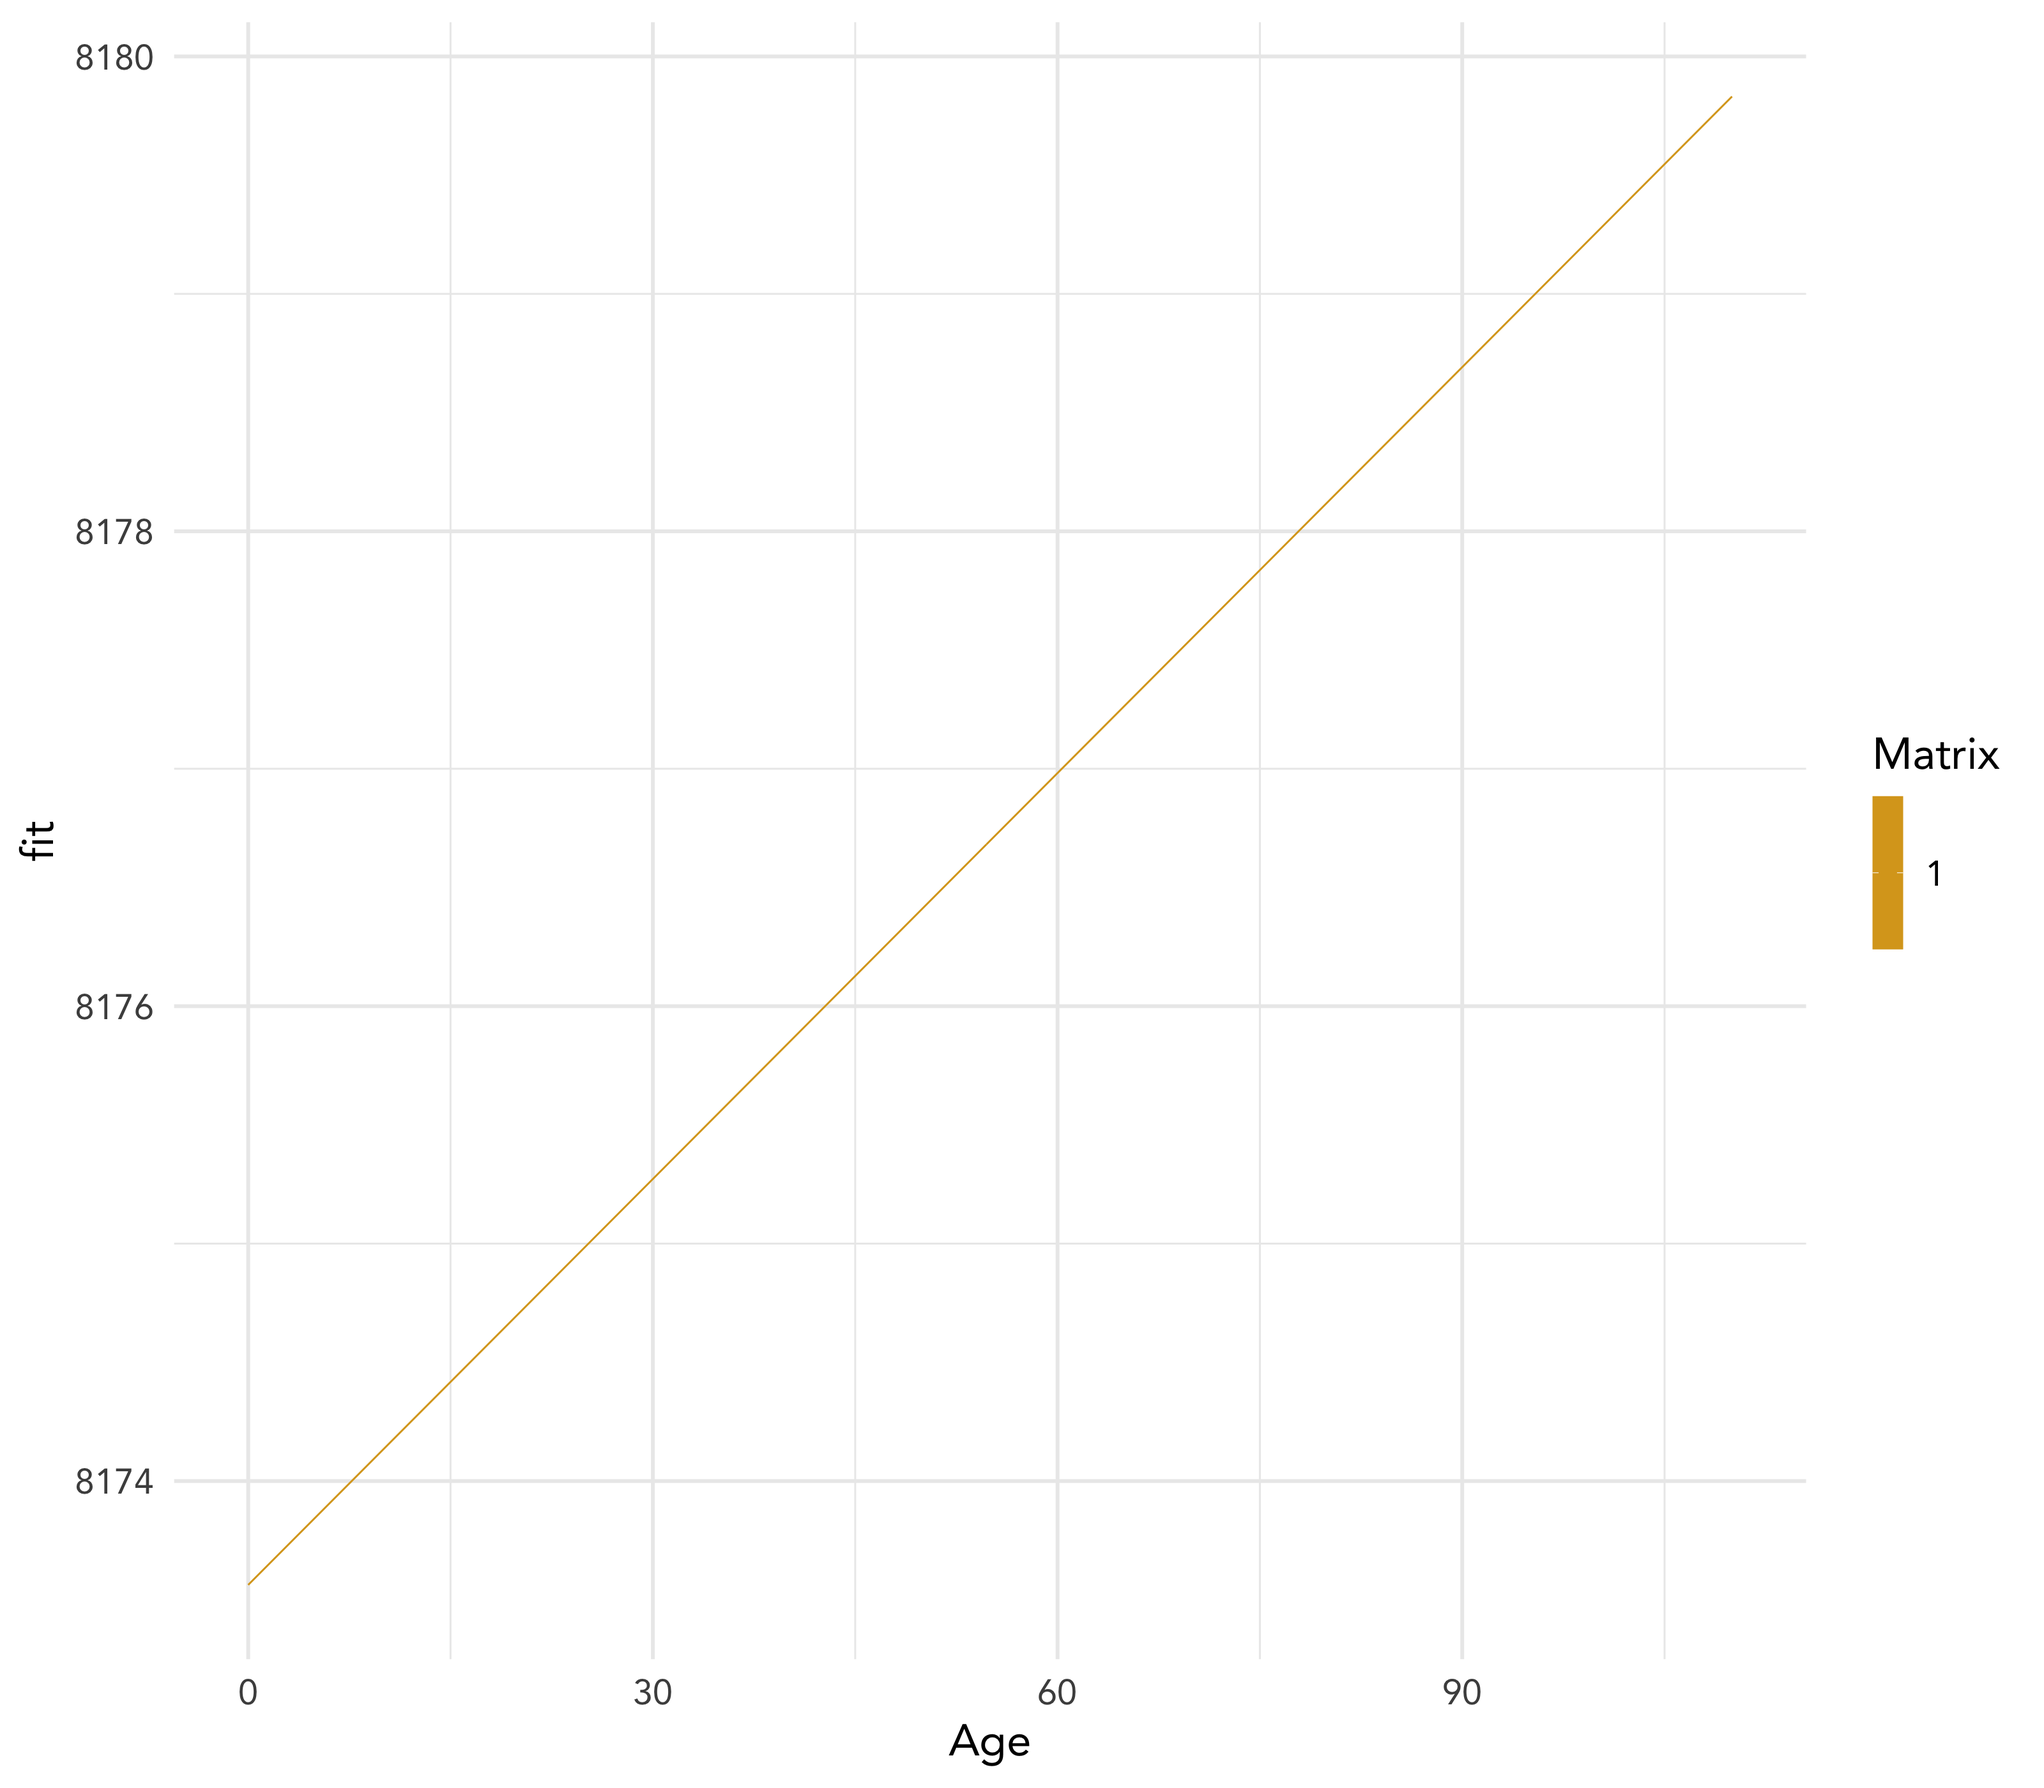
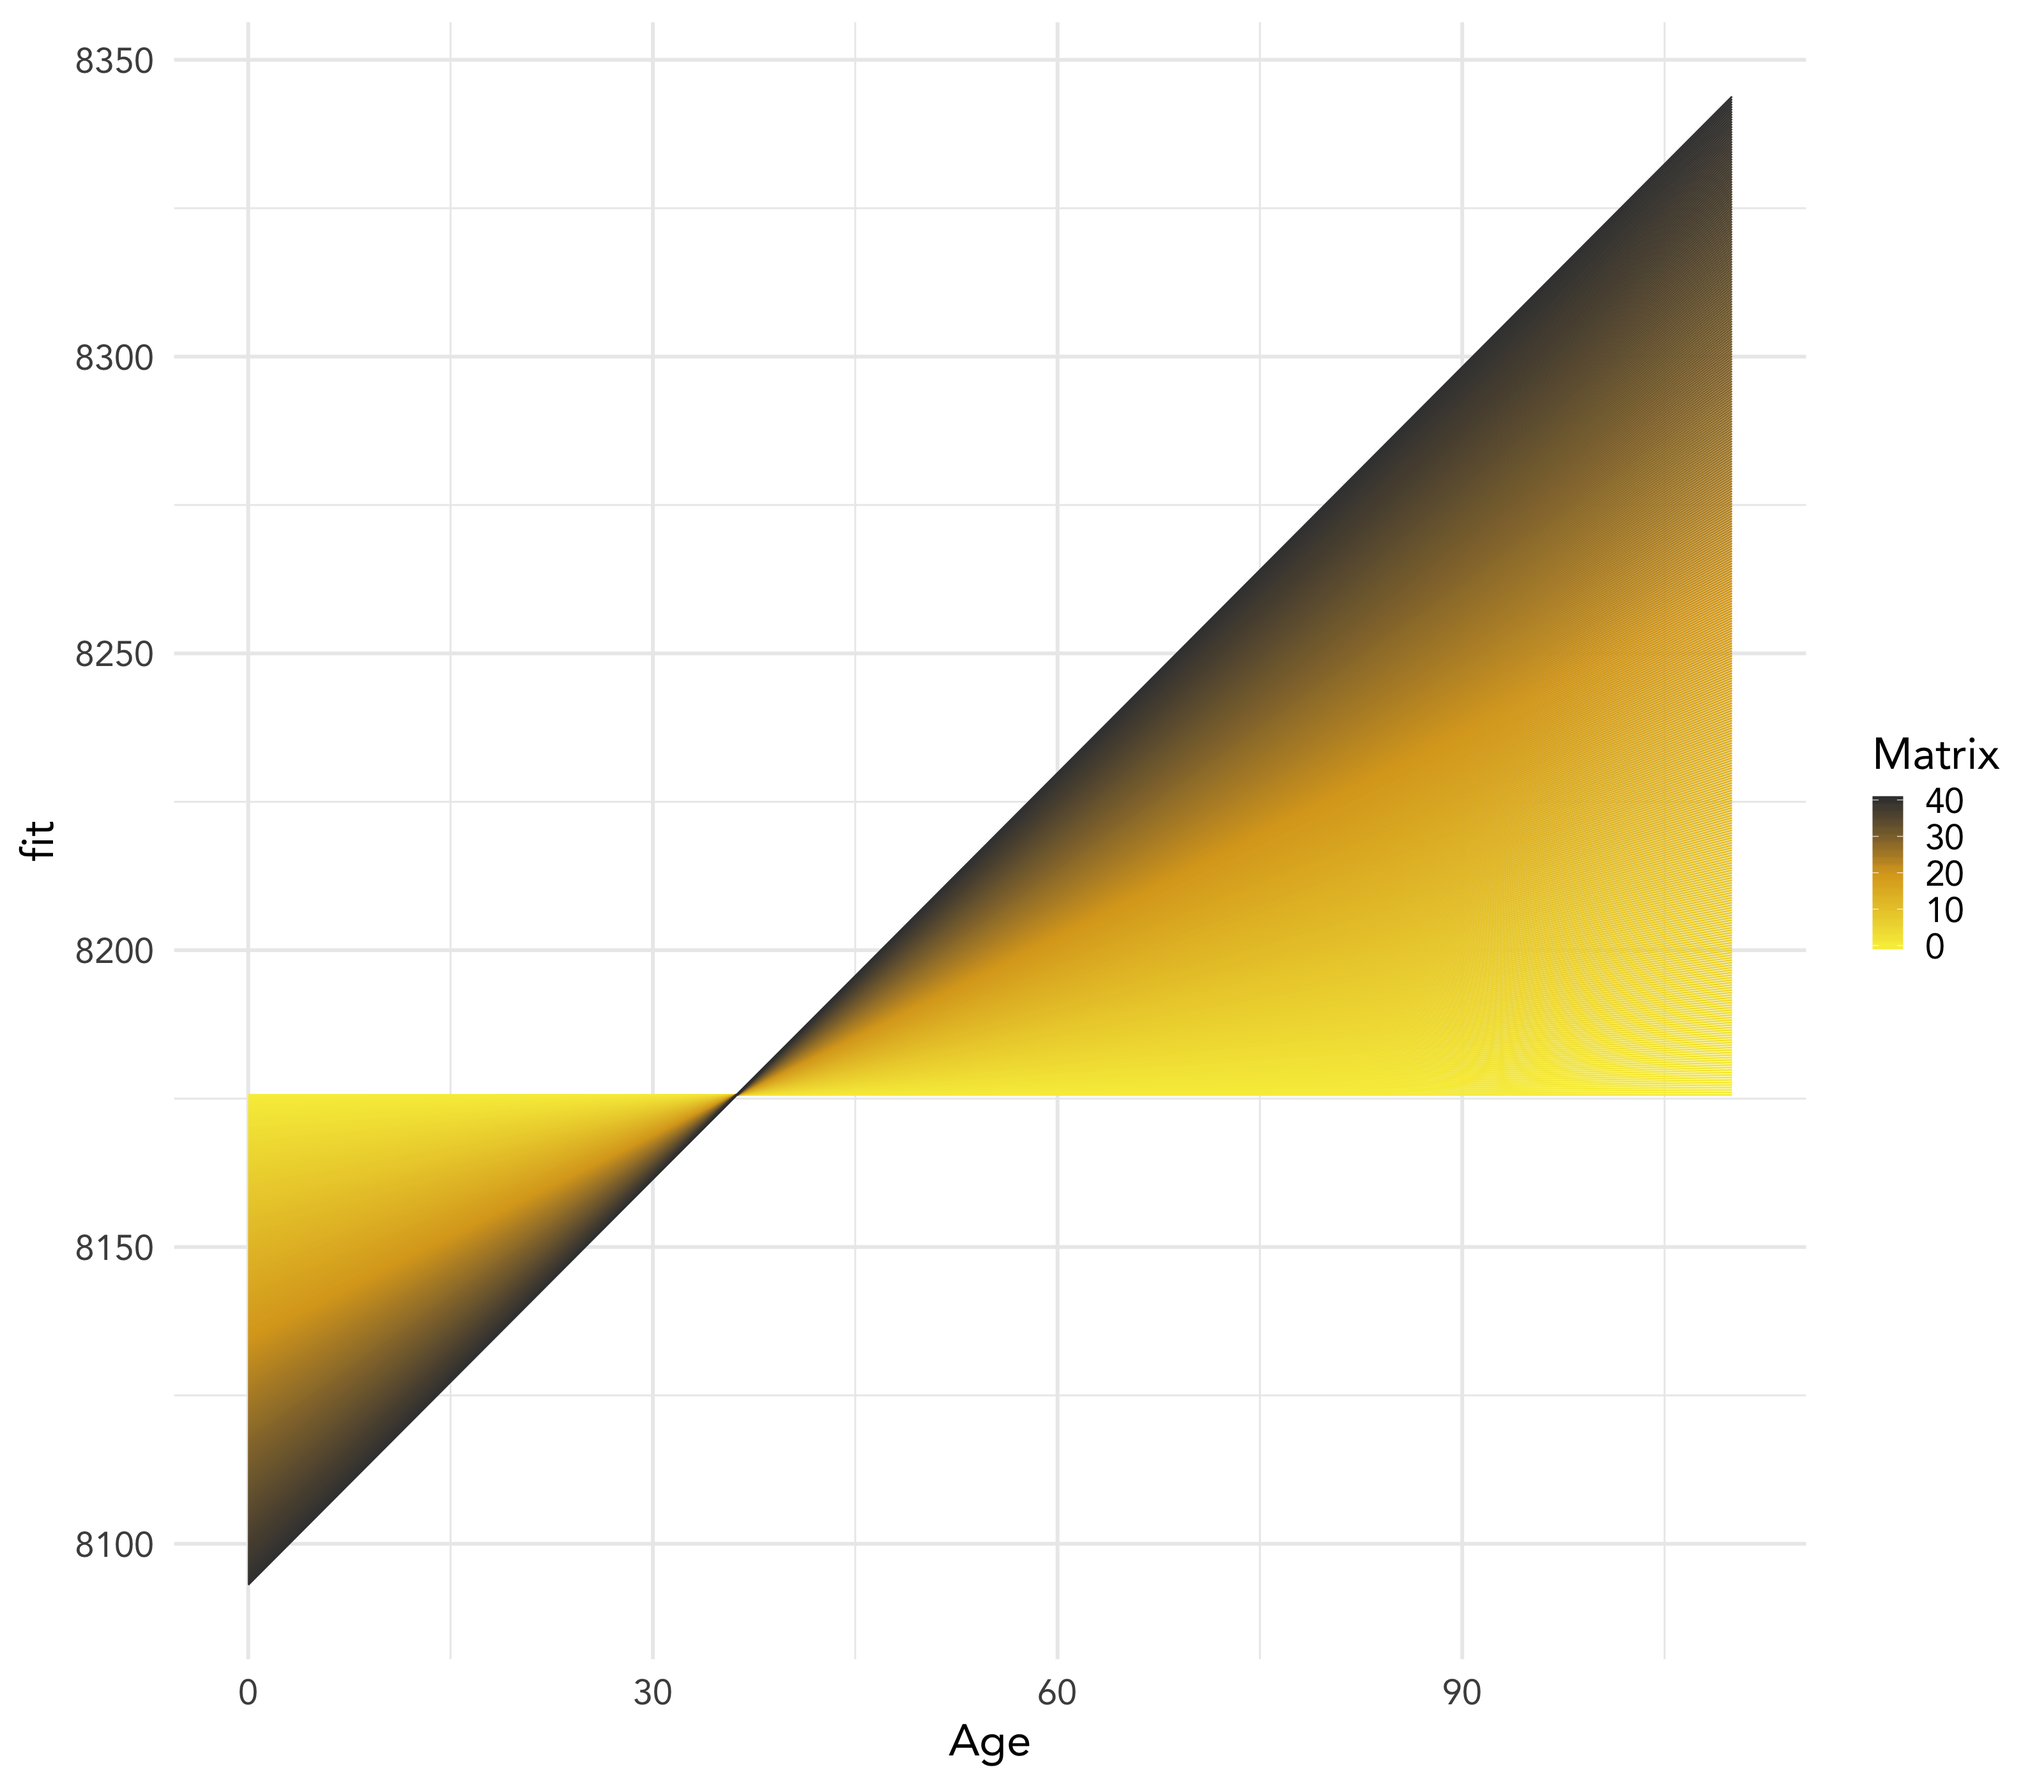
fixed matrix by plot

diff --git a/docs/practical-talk.html b/docs/practical-talk.html
@@ -823,10 +823,9 @@ sim_data_gamm2_predmat &lt;- expand_grid(
   ))
 
 sim_data_gamm2_predmat %&gt;% 
-  filter(Matrix == 1) %&gt;% 
-ggplot(aes(x = Age, y = fit, 
-           colour = Matrix,
-           group = Matrix)) + 
+  ggplot(aes(x = Age, y = fit, 
+             colour = Matrix,
+             group = Matrix)) + 
   geom_line()
 ```
 ]
@@ -838,7 +837,6 @@ ggplot(aes(x = Age, y = fit,
 ---
 
 # Mixed models - comparing models
-
 
 ???
 R tells us that the models are refitted with ML instead of REML. This is necessary for model comparison, and it's very handy that this is done for us, so we don't have to keep running models in parallell for comparisons.
@@ -933,8 +931,6 @@ sim_data_gamm_null &lt;-
 ---
 
 # Mixed models - comparing models
-
-
 
 ```r
 anova(
